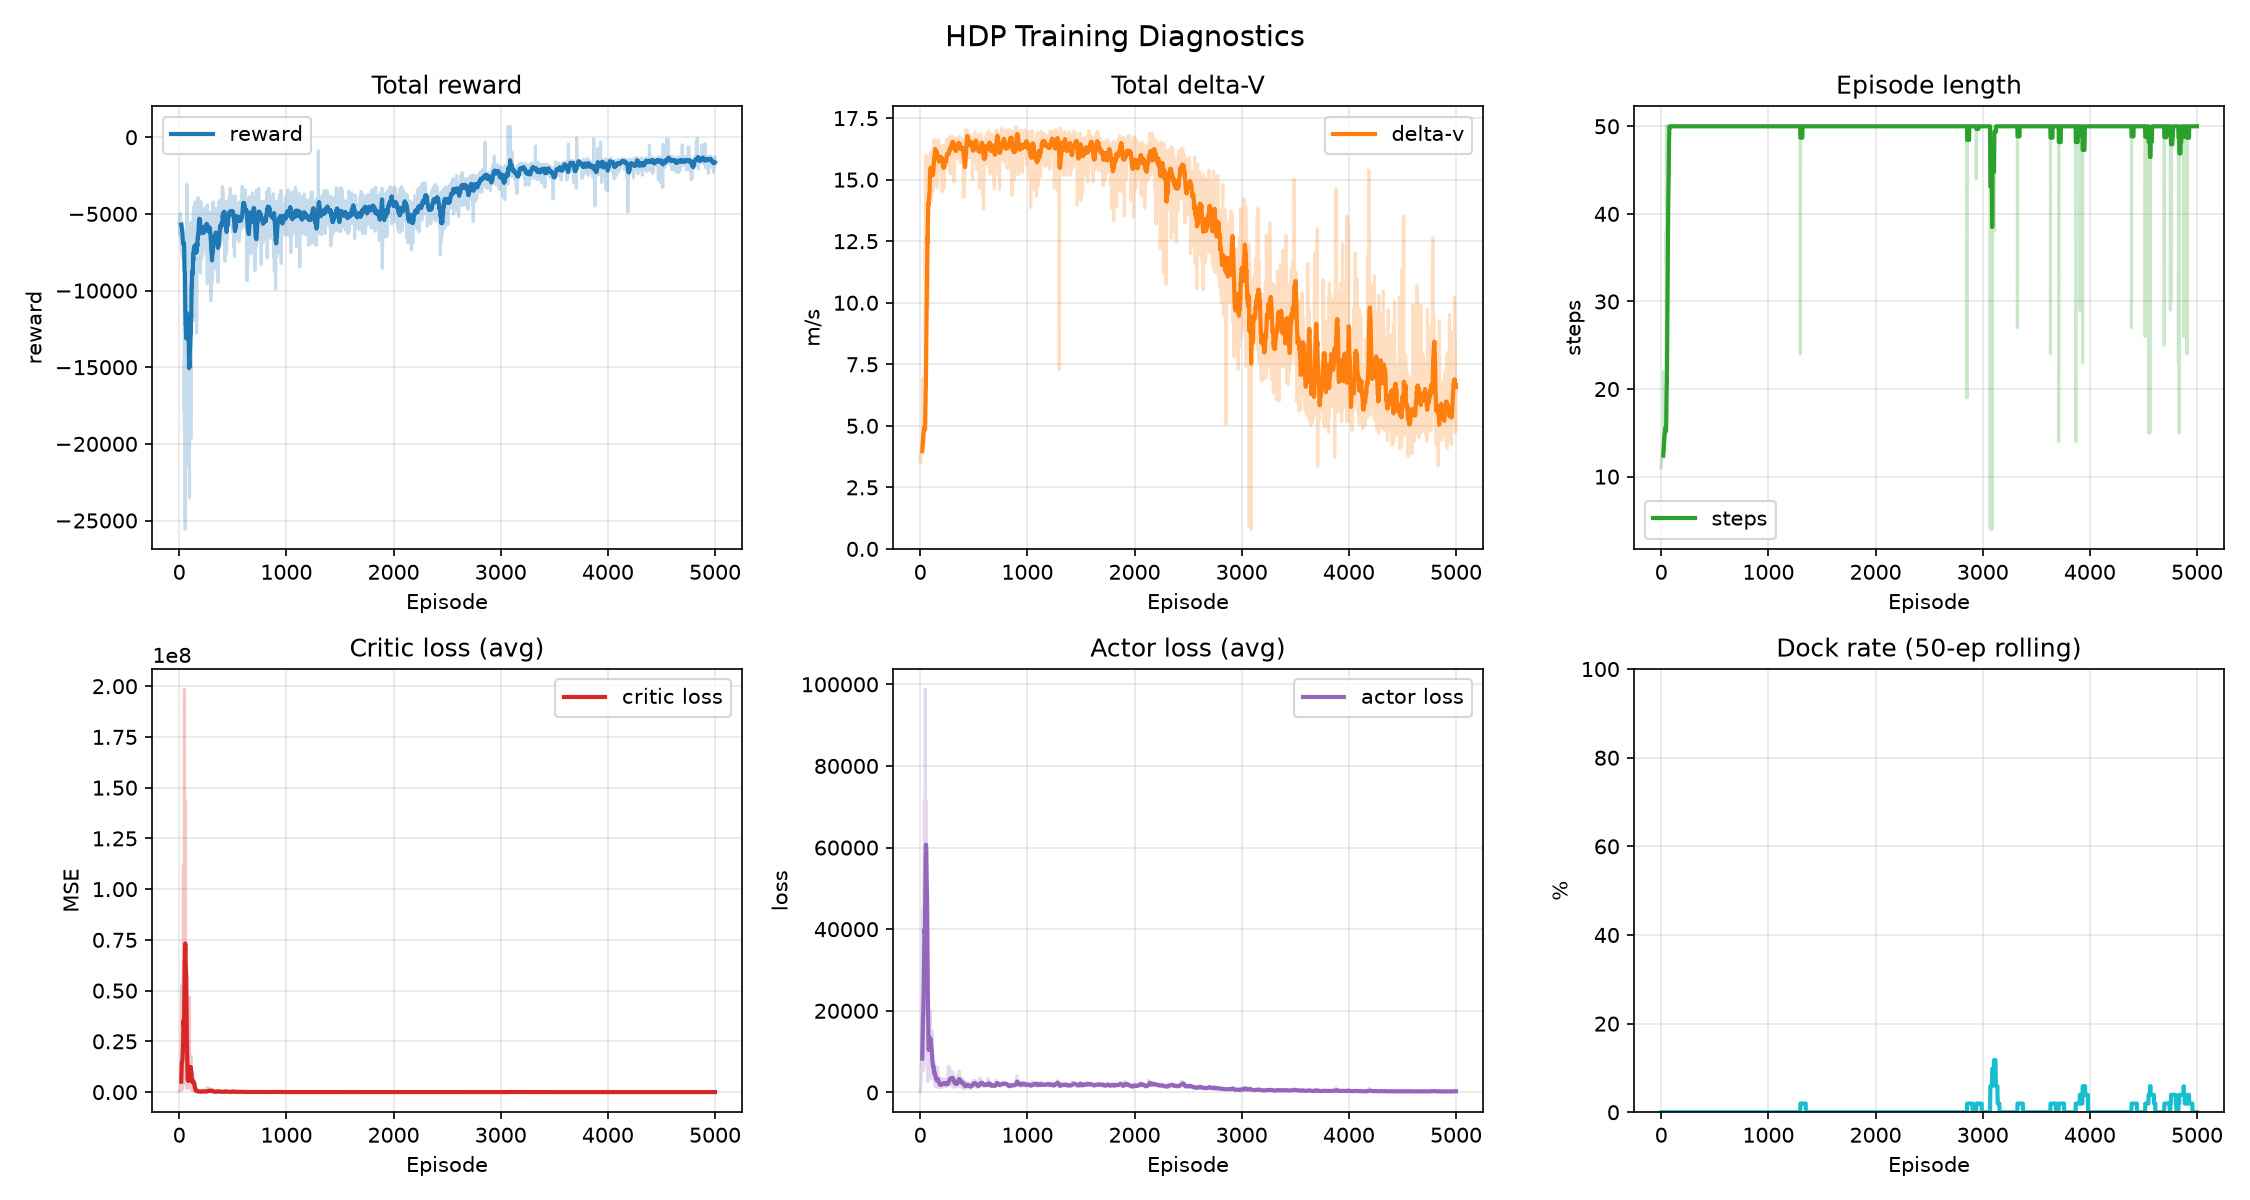
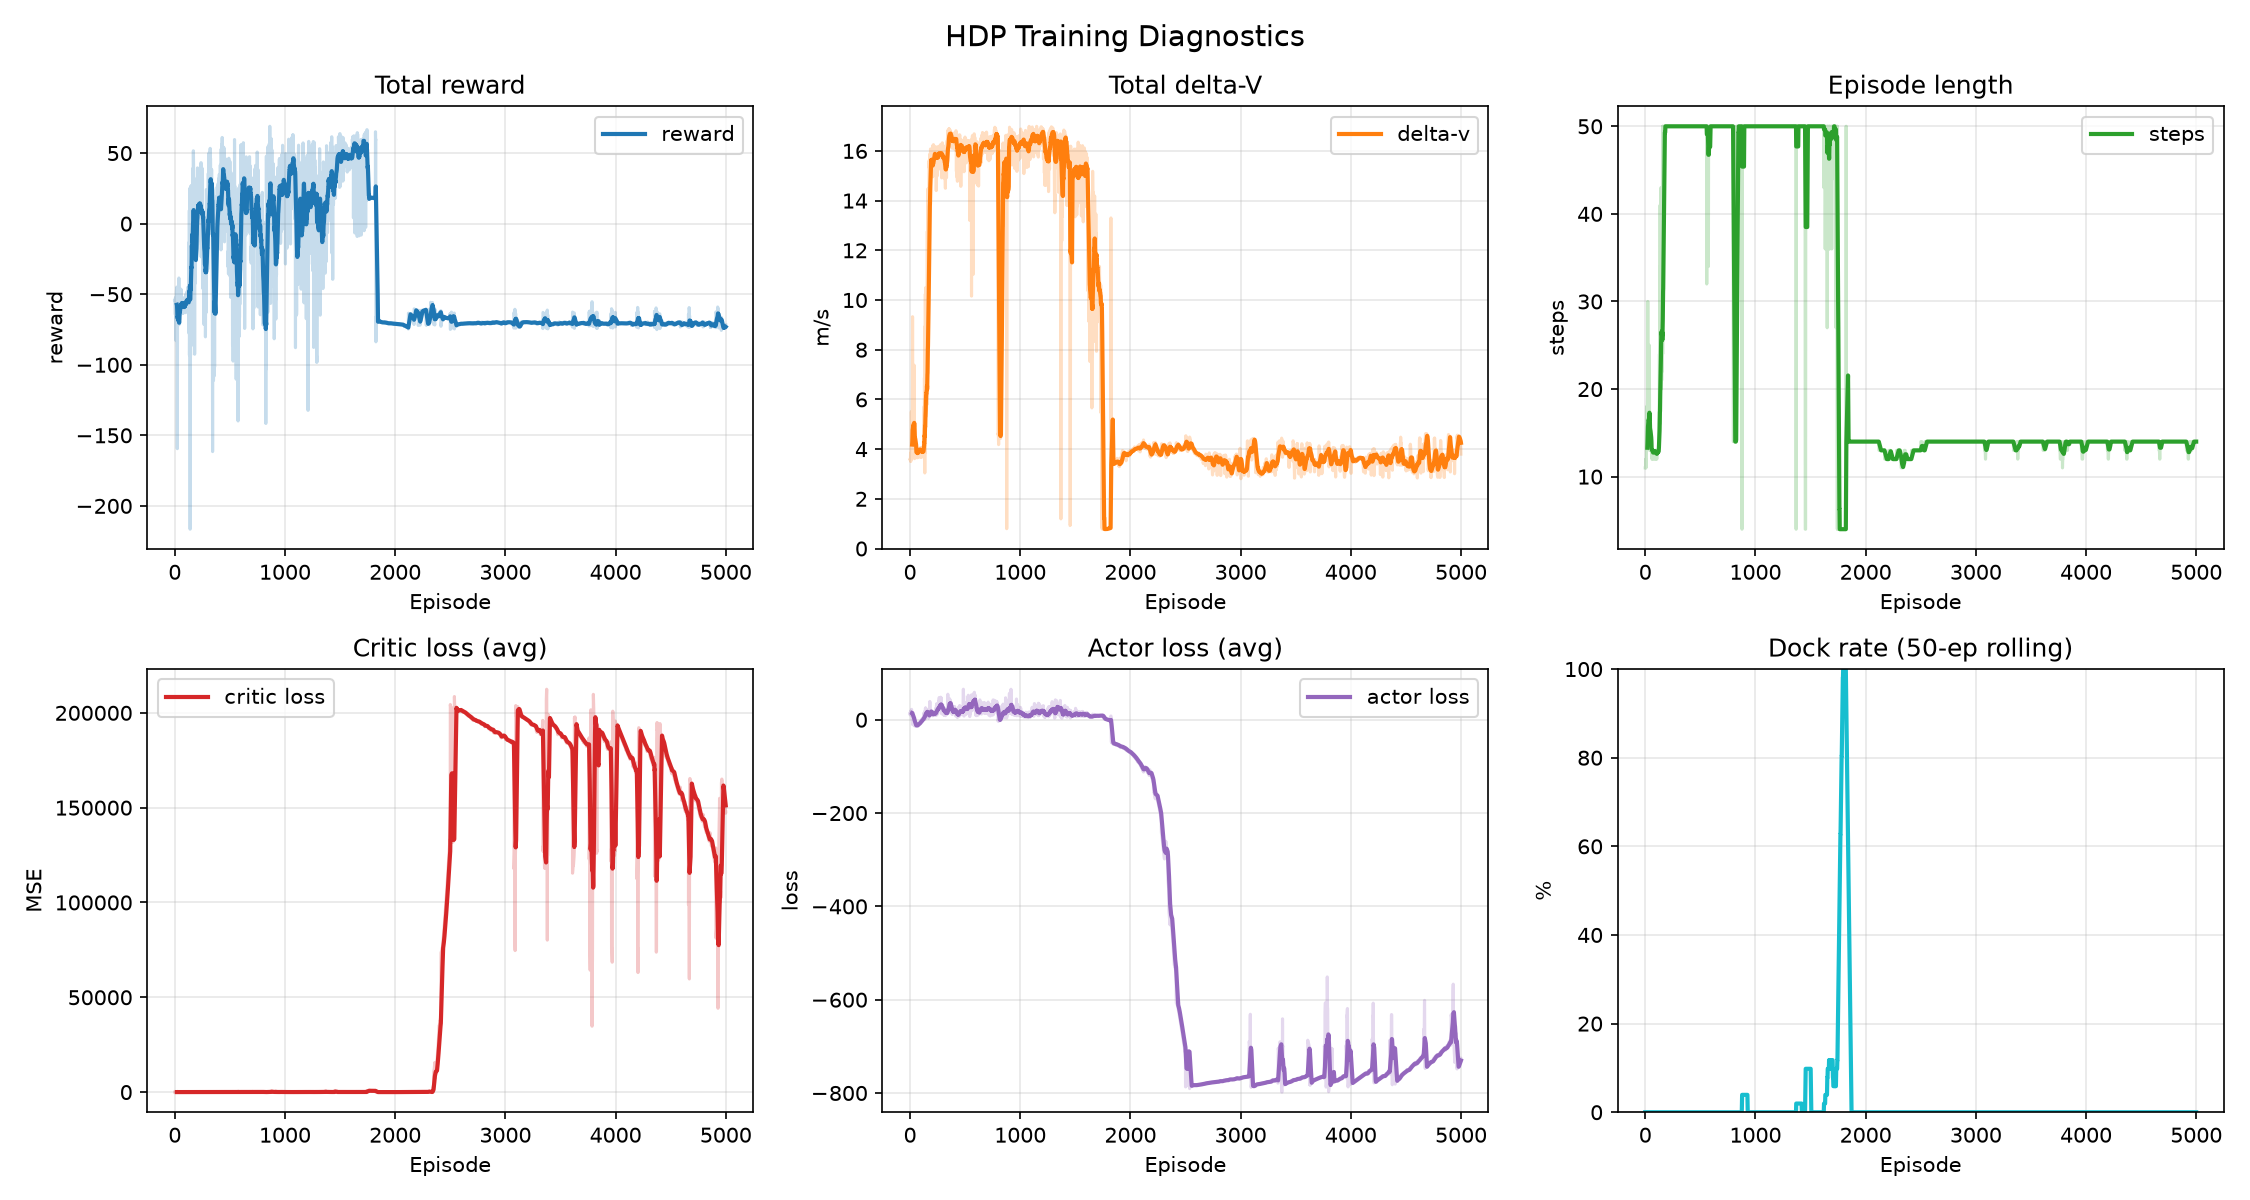
reward fixed

diff --git a/training.py b/training.py
@@ -13,7 +13,6 @@ from libs.constants import (
     DIAGNOSTICS_PLOT_PATH,
     DOCK_RATE_WINDOW,
     GAMMA,
-    GRAD_CLIP_NORM,
     LOG_EVERY,
     MAX_STEPS,
     NUM_EPISODES,
@@ -22,6 +21,7 @@ from libs.constants import (
     TRAINED_ACTOR_PATH,
     TRAINED_CRITIC_PATH,
     TRAINING_HISTORY_PATH,
+    TAU
 )
 from libs.critic import Critic
 from libs.env import CWRendezvousEnv
@@ -58,6 +58,10 @@ def main():
     actor_opt = optim.Adam(actor.parameters(), lr=ACTOR_LR)
     critic_opt = optim.Adam(critic.parameters(), lr=CRITIC_LR)
 
+    critic_target = Critic()
+    critic_target.load_state_dict(critic.state_dict())
+    critic_target.eval()
+
     Path("trained").mkdir(parents=True, exist_ok=True)
     Path("out").mkdir(parents=True, exist_ok=True)
 
@@ -69,7 +73,7 @@ def main():
     episode_docked = []
 
     print(f"{'ep':>6} | {'steps':>5} | {'reward':>9} | {'r_pos':>8} | {'r_fuel':>8} | "
-          f"{'dv':>7} | {'c_loss':>9} | {'a_loss':>9} | {'J_mean':.8} | {'docked':>6}")
+          f"{'dv':>7} | {'c_loss':>9} | {'a_loss':>9} | {'J_mean':.8} | {'docked':>6} | {'vel_err':>8}")
     print("-" * 105)
 
     for episode in range(NUM_EPISODES):
@@ -81,6 +85,7 @@ def main():
         total_delta_v = 0.0
         total_r_pos = 0.0
         total_r_fuel = 0.0
+        total_vel_error = 0.0
         total_critic_loss = 0.0
         total_actor_loss = 0.0
         total_J = 0.0
@@ -97,16 +102,27 @@ def main():
             total_reward += reward
             total_r_pos += info["reward_pos"]
             total_r_fuel += info["reward_fuel"]
+            total_vel_error += info["vel_error"]
+            
             if info["docked"]:
                 docked = True
-
-            current_J = critic(next_state)
-            target = reward_t + GAMMA * current_J.detach()
+            ########
+            with torch.no_grad():
+                target = reward_t + GAMMA * critic_target(next_state)
+                target = torch.clamp(target, -500.0, 500.0)
+            ######## 
+            # current_J = critic(next_state)
+            # target = reward_t + GAMMA * current_J.detach()
             critic_loss = torch.mean((prev_J - target) ** 2)
             critic_opt.zero_grad()
             critic_loss.backward()
-            torch.nn.utils.clip_grad_norm_(critic.parameters(), max_norm=GRAD_CLIP_NORM)
             critic_opt.step()
+
+            #########
+            with torch.no_grad():
+                for p, p_tgt in zip(critic.parameters(), critic_target.parameters()):
+                    p_tgt.data.mul_(1 - TAU).add_(TAU * p.data)
+            #########
 
             current_action = actor(state)
             predicted_next_state = env.propagate_torch(state, current_action)
@@ -114,12 +130,11 @@ def main():
             actor_loss = -critic(predicted_next_state).mean() + action_penalty
             actor_opt.zero_grad()
             actor_loss.backward()
-            torch.nn.utils.clip_grad_norm_(actor.parameters(), max_norm=GRAD_CLIP_NORM)
             actor_opt.step()
 
             total_critic_loss += critic_loss.item()
             total_actor_loss += actor_loss.item()
-            total_J += current_J.item()
+            total_J += critic(next_state).item()   # ── CHANGED: re-evaluate after update
 
             state = next_state
             prev_J = critic(state)
@@ -139,9 +154,8 @@ def main():
             dock_rate = np.mean(episode_docked[-DOCK_RATE_WINDOW:]) * 100
             print(f"{episode:>6} | {n:>5} | {total_reward:>9.2f} | {total_r_pos/n:>8.2f} | "
                   f"{total_r_fuel/n:>8.2f} | {total_delta_v:>7.3f} | "
-                  f"{total_critic_loss/n:>9.4f} | {total_actor_loss/n:>9.4f} | "
-                  f"{total_J/n:>8.3f} | {dock_rate:>5.1f}%")
-
+                  f"{total_critic_loss/n:>9.1f} | {total_actor_loss/n:>9.1f} | "
+                  f"{total_J/n:>8.1f} | {dock_rate:>5.1f}% | {total_vel_error/n:>8.3f}")
     torch.save(actor.state_dict(), TRAINED_ACTOR_PATH)
     torch.save(critic.state_dict(), TRAINED_CRITIC_PATH)
 

diff --git a/libs/constants.py b/libs/constants.py
@@ -13,7 +13,7 @@ ENV_BOUNDARY = 1000.0
 ENV_TIMEOUT = 10 * ORBIT_PERIOD
 ENV_POS_TOLERANCE = 1.0
 ENV_VEL_TOLERANCE = 0.01
-ENV_VEL_COEFF = 100.0
+ENV_VEL_COEFF = 5.0
 ENV_FUEL_COEFF = 1.0
 ENV_BONUS = 1000.0
 ENV_INITIAL_STATE_VBAR = np.array([0.0, 100.0, 0.0, 0.0, 0.0, 0.0], dtype=np.float64)
@@ -23,10 +23,11 @@ ENV_INITIAL_STATE_XPLUS = np.array([100.0, 0.0, 0.0, 0.0, 0.0, 0.0], dtype=np.fl
 GAMMA = 0.95
 NUM_EPISODES = 5000
 MAX_STEPS = 50
-ACTOR_LR = 1e-5
+ACTOR_LR = 1e-6
 CRITIC_LR = 1e-4
 GRAD_CLIP_NORM = 1.0
 LOG_EVERY = 10
+TAU = 0.005  # soft update rate — add to constants.py
 
 # --- Evaluation / plotting defaults ---
 SMOOTHING_WINDOW = 20

diff --git a/libs/env.py b/libs/env.py
@@ -148,7 +148,7 @@ class CWRendezvousEnv(gym.Env):
         else:
             reward_vel = 0
 
-        reward = reward_pos + reward_fuel + reward_vel + reward_shaping
+        reward = reward_pos + reward_fuel + reward_vel + reward_shaping + reward_bonus
 
         observation = self.state.copy()
         info = {
@@ -158,6 +158,7 @@ class CWRendezvousEnv(gym.Env):
             "reward_vel": reward_vel,
             "reward_fuel": reward_fuel,
             "reward_bonus": reward_bonus,
+            "vel_error": vel_error,
         }
 
         return observation, reward, terminated, truncated, info